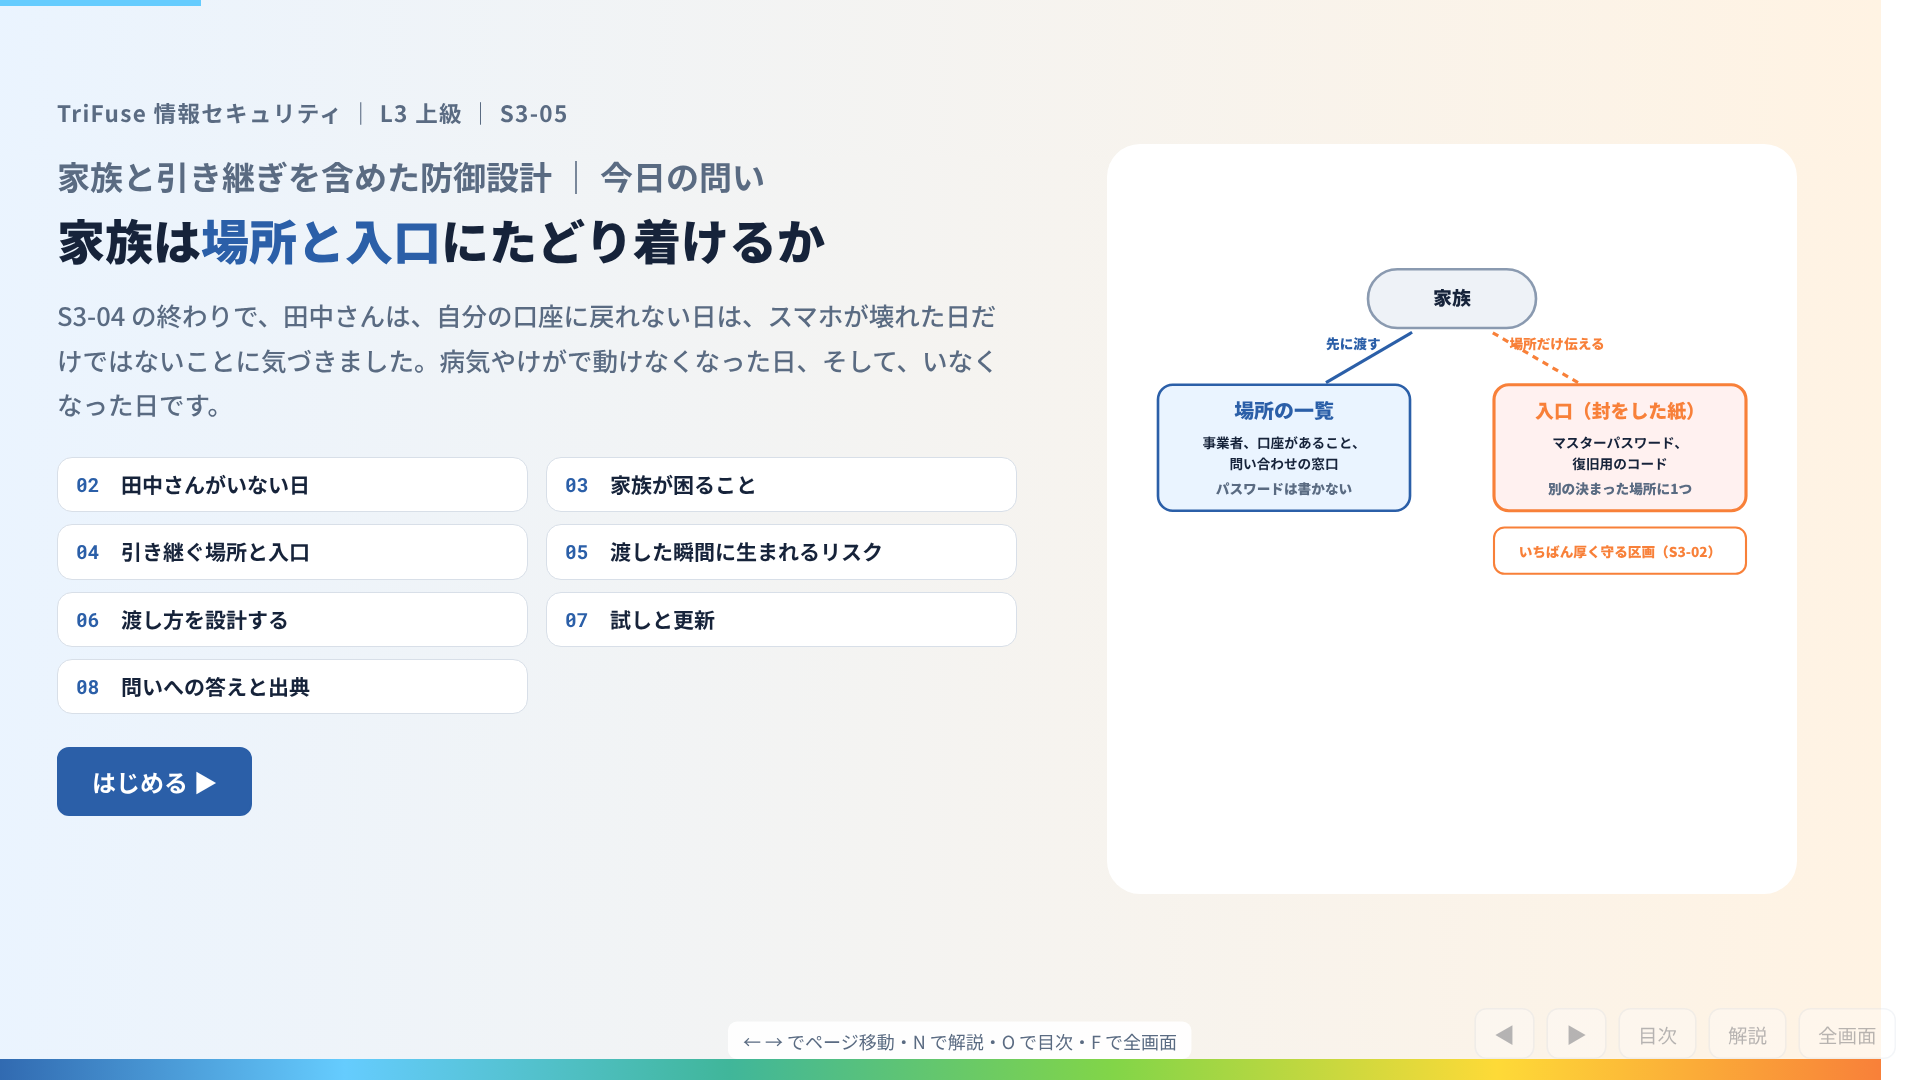
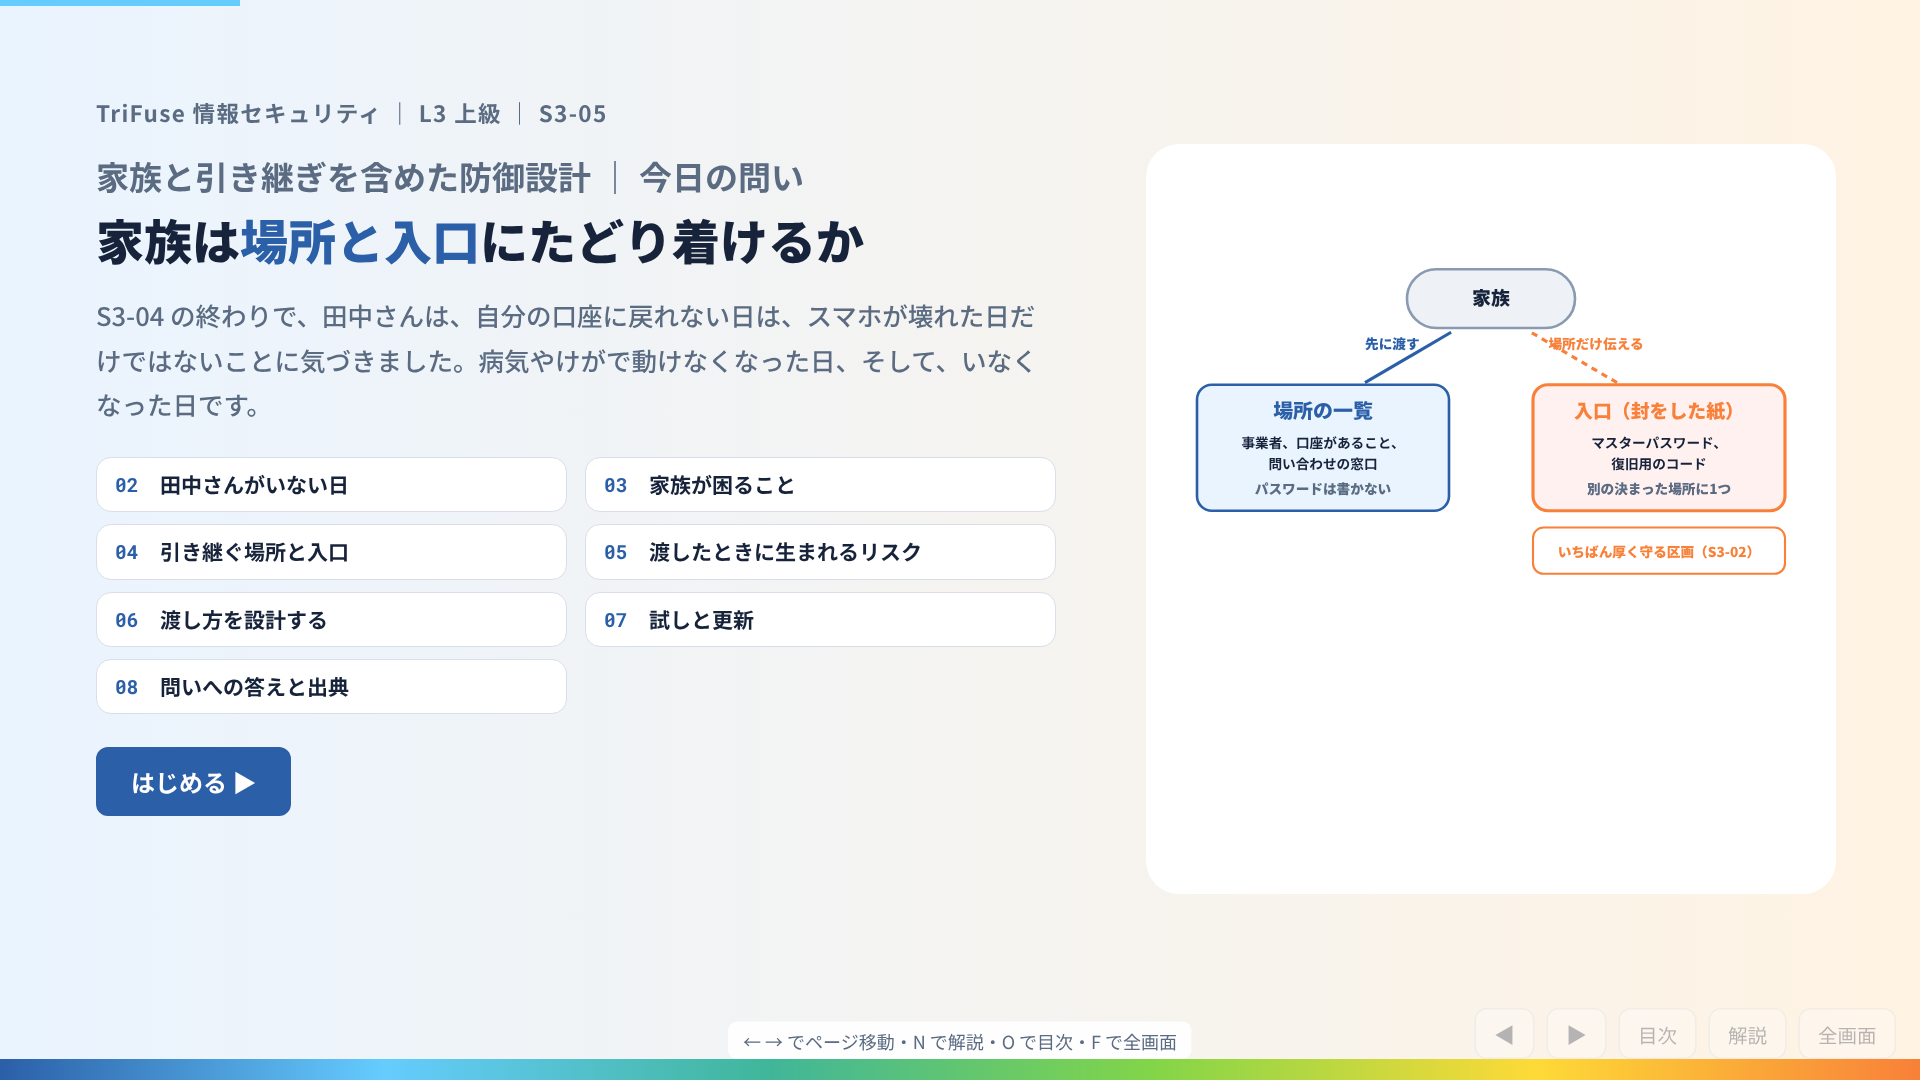
S3-05 の見出しを「渡したときに生まれるリスク」に直した版に差し替える
社長の指示で「渡した瞬間に」を「渡したときに」に直した。make_site v1.10。

Claude-Session: https://claude.ai/code/session_01KsCAt1ZMX88apw32RnbciD

diff --git a/index.html b/index.html
@@ -307,6 +307,6 @@ footer{margin-top:52px;padding-top:18px;border-top:1px solid var(--rule);font-si
 <a class="card" href="e3-ex/"><div class="shot"><img src="e3-ex/thumb.png" alt="" loading="lazy" width="1920" height="1080"></div><div class="tx"><span class="code">E3-EX</span><span class="tt">卒業課題：波及経路と反証条件を明示して読む</span><span class="go">›</span><span class="meta">7ページ</span></div></a>
 </div>
 </section>
-<footer>make_site v1.9（s0-01 50c2e74a・s0-02 2e95fb85・s0-ex f2a050db・a0-01 30b2ef9f・a0-02 78939ab9・a0-ex e6d43d4a・f0-01 23dde620・f0-02 466eb6ce・f0-03 c23f17cb・f0-04 93c8d941・f0-ex cd29c841・e0-01 535e488a・e0-02 5b2a3c6a・e0-ex 70aa4361・f1-01 b1ec7614・f1-02 4248ca1f・f1-03 e6e039cd・f1-04 368722ae・f1-05 02fb2ad5・f1-06 9df6d592・f1-07 f7a43dd8・f1-08 fb1232a5・f1-09 1fbb41cd・f1-10 af3f724b・s1-01 25129159・s1-02 2f18b4fb・s1-03 8658725b・s1-04 1f29bea3・s1-05 d9ac88dd・s1-06 4d6f40f9・s1-07 95ee285b・s1-08 63af92dc・s1-09 24c21369・s1-10 9bf7b858・s1-ex 2dfb9175・s2-01 7470b37d・s2-02 7f980b8d・s2-03 fa460cf1・s2-04 7ffccece・s2-05 77ae8dc8・s2-06 7869209f・s2-07 7caf2a14・s2-08 4cd032ba・s2-ex 2f635534・s3-01 da4874a0・s3-02 259b2144・s3-03 93bee158・s3-04 03857286・s3-05 c9c6472c・s3-ex 76a0d264・e1-01 fc9b31af・e1-02 5c5e348d・e1-03 f86e2122・e1-04 194b747e・e1-05 c1cf74e7・e1-06 bd4efdfd・e1-07 1fe7a9b3・e1-08 0a1dd70c・e1-09 50465a95・e1-10 e3c3ba2a・e1-11 4628654f・e1-12 245bc4da・e1-13 ab06cdf1・e1-14 044a8cbd・e1-15 de018357・e1-ex 89614912・e2-01 975ae973・e2-02 7dcfab0f・e2-03 b7b9740d・e2-04 a0c0fb98・e2-05 b945e59f・e2-06 1c936bb3・e2-07 f6f75079・e2-08 764212d4・e2-09 468568ed・e2-10 14f22e24・e2-11 65fec2db・e2-12 df8c0d86・e2-13 2373069f・e2-14 ff93b6b6・e2-15 e479bb8b・e2-16 cb75bd6b・e2-ex 6f46024e・e3-01 d52bfad5・e3-02 0c58a283・e3-03 9bcc544b・e3-04 0a2f126d・e3-05 86b81abc・e3-06 55349d35・e3-07 8c4f6452・e3-08 b99023ff・e3-09 1ea73cfd・e3-10 130f9a3c・e3-11 5dc98598・e3-12 5aca9351・e3-ex f8f0f251・a1-01 68d581dd・a1-02 2eeea5a8・a1-03 dd2515aa・a1-04 de7e056e・a1-05 753451d6・a1-06 8b516ba0・a1-07 adc351e2・a1-08 16eeb351・a1-09 6e24be23・a1-10 f8bde4ba・a1-11 6d1ac03b・a1-12 e2b1858f・a1-13 394cf086・a1-14 0d8a5118・a1-15 61883536・a1-ex 5a31e835・a2-01 485b79c6・a2-02 f2960554・a2-03 a0b903a1・a2-04 3cbc8980・a2-05 34fb165d・a2-06 55845f5e・a2-07 e5cc3416・a2-08 206a4823・a2-09 a963fcb9・a2-10 fb538646・a2-11 b8d90223・a2-12 318d8d56・a2-13 45a48123・a2-14 5aaf12a2・a2-15 43175f4e・a2-ex 8b384fc0・a3-01 7888de0a・a3-02 f2db5215・a3-03 a34a814a・a3-04 7e45d770・a3-05 db0a0bbb・a3-06 8aabccfb・a3-07 b32d217e・a3-08 62e132bf・a3-09 b63f1fd4・a3-ex b555a2f9・f1-11 97628479・f1-12 f3f86691・f1-13 fd844582・f1-14 00ceaa43・f1-15 fd0dcb98・f1-16 3b0432ec・f1-17 558ea82c・f1-18 a9a7c3b0・f1-19 607d04d3・f1-20 ed9f4f46・f1-21 47e66df5・f1-ex a5aa7e87・f2-01 7b7753f1・f2-02 0a5c108f・f2-03 e7d9f0d6・f2-04 8383e45b・f2-05 915bee1b・f2-06 6d34c7d4・f2-07 3ef5bdf6・f2-08 8793d7d5・f2-09 73bc4a2e・f2-10 ec8fbaba・f2-11 55e826f9・f2-12 cfe197b2・f2-13 b78d1a7c・f2-14 620bfa7b・f2-15 680d8937・f2-16 ea117aa4・f2-17 c7f320cb・f2-18 19847a61・f2-19 b5989e18・f2-20 94de711b・f2-21 f5ae4f92・f2-ex a68b9c76・f3-01 fa5fa1f5・f3-02 50b2f21f・f3-03 5a822b7b・f3-04 634a6316・f3-05 3b3f0a4b・f3-06 b58c204e・f3-07 8182bd1b・f3-08 a7c8b43a・f3-09 12ed2900・f3-10 6cdd39f6・f3-11 d6827457・f3-12 06a24e81・f3-13 974d8c4d・f3-14 7a5d4bd0・f3-15 e2d7719f・f3-16 8abb0893・f3-ex f4736045）</footer>
+<footer>make_site v1.10（s0-01 50c2e74a・s0-02 2e95fb85・s0-ex f2a050db・a0-01 30b2ef9f・a0-02 78939ab9・a0-ex e6d43d4a・f0-01 23dde620・f0-02 466eb6ce・f0-03 c23f17cb・f0-04 93c8d941・f0-ex cd29c841・e0-01 535e488a・e0-02 5b2a3c6a・e0-ex 70aa4361・f1-01 b1ec7614・f1-02 4248ca1f・f1-03 e6e039cd・f1-04 368722ae・f1-05 02fb2ad5・f1-06 9df6d592・f1-07 f7a43dd8・f1-08 fb1232a5・f1-09 1fbb41cd・f1-10 af3f724b・s1-01 25129159・s1-02 2f18b4fb・s1-03 8658725b・s1-04 1f29bea3・s1-05 d9ac88dd・s1-06 4d6f40f9・s1-07 95ee285b・s1-08 63af92dc・s1-09 24c21369・s1-10 9bf7b858・s1-ex 2dfb9175・s2-01 7470b37d・s2-02 7f980b8d・s2-03 fa460cf1・s2-04 7ffccece・s2-05 77ae8dc8・s2-06 7869209f・s2-07 7caf2a14・s2-08 4cd032ba・s2-ex 2f635534・s3-01 da4874a0・s3-02 259b2144・s3-03 93bee158・s3-04 03857286・s3-05 9c42f2e6・s3-ex 76a0d264・e1-01 fc9b31af・e1-02 5c5e348d・e1-03 f86e2122・e1-04 194b747e・e1-05 c1cf74e7・e1-06 bd4efdfd・e1-07 1fe7a9b3・e1-08 0a1dd70c・e1-09 50465a95・e1-10 e3c3ba2a・e1-11 4628654f・e1-12 245bc4da・e1-13 ab06cdf1・e1-14 044a8cbd・e1-15 de018357・e1-ex 89614912・e2-01 975ae973・e2-02 7dcfab0f・e2-03 b7b9740d・e2-04 a0c0fb98・e2-05 b945e59f・e2-06 1c936bb3・e2-07 f6f75079・e2-08 764212d4・e2-09 468568ed・e2-10 14f22e24・e2-11 65fec2db・e2-12 df8c0d86・e2-13 2373069f・e2-14 ff93b6b6・e2-15 e479bb8b・e2-16 cb75bd6b・e2-ex 6f46024e・e3-01 d52bfad5・e3-02 0c58a283・e3-03 9bcc544b・e3-04 0a2f126d・e3-05 86b81abc・e3-06 55349d35・e3-07 8c4f6452・e3-08 b99023ff・e3-09 1ea73cfd・e3-10 130f9a3c・e3-11 5dc98598・e3-12 5aca9351・e3-ex f8f0f251・a1-01 68d581dd・a1-02 2eeea5a8・a1-03 dd2515aa・a1-04 de7e056e・a1-05 753451d6・a1-06 8b516ba0・a1-07 adc351e2・a1-08 16eeb351・a1-09 6e24be23・a1-10 f8bde4ba・a1-11 6d1ac03b・a1-12 e2b1858f・a1-13 394cf086・a1-14 0d8a5118・a1-15 61883536・a1-ex 5a31e835・a2-01 485b79c6・a2-02 f2960554・a2-03 a0b903a1・a2-04 3cbc8980・a2-05 34fb165d・a2-06 55845f5e・a2-07 e5cc3416・a2-08 206a4823・a2-09 a963fcb9・a2-10 fb538646・a2-11 b8d90223・a2-12 318d8d56・a2-13 45a48123・a2-14 5aaf12a2・a2-15 43175f4e・a2-ex 8b384fc0・a3-01 7888de0a・a3-02 f2db5215・a3-03 a34a814a・a3-04 7e45d770・a3-05 db0a0bbb・a3-06 8aabccfb・a3-07 b32d217e・a3-08 62e132bf・a3-09 b63f1fd4・a3-ex b555a2f9・f1-11 97628479・f1-12 f3f86691・f1-13 fd844582・f1-14 00ceaa43・f1-15 fd0dcb98・f1-16 3b0432ec・f1-17 558ea82c・f1-18 a9a7c3b0・f1-19 607d04d3・f1-20 ed9f4f46・f1-21 47e66df5・f1-ex a5aa7e87・f2-01 7b7753f1・f2-02 0a5c108f・f2-03 e7d9f0d6・f2-04 8383e45b・f2-05 915bee1b・f2-06 6d34c7d4・f2-07 3ef5bdf6・f2-08 8793d7d5・f2-09 73bc4a2e・f2-10 ec8fbaba・f2-11 55e826f9・f2-12 cfe197b2・f2-13 b78d1a7c・f2-14 620bfa7b・f2-15 680d8937・f2-16 ea117aa4・f2-17 c7f320cb・f2-18 19847a61・f2-19 b5989e18・f2-20 94de711b・f2-21 f5ae4f92・f2-ex a68b9c76・f3-01 fa5fa1f5・f3-02 50b2f21f・f3-03 5a822b7b・f3-04 634a6316・f3-05 3b3f0a4b・f3-06 b58c204e・f3-07 8182bd1b・f3-08 a7c8b43a・f3-09 12ed2900・f3-10 6cdd39f6・f3-11 d6827457・f3-12 06a24e81・f3-13 974d8c4d・f3-14 7a5d4bd0・f3-15 e2d7719f・f3-16 8abb0893・f3-ex f4736045）</footer>
 </main>
 </body></html>

diff --git a/s3-05/index.html b/s3-05/index.html
@@ -380,7 +380,7 @@ svg .sv{transform:none}
       <div class="cover-q fade d2">家族と引き継ぎを含めた防御設計 ｜ 今日の問い</div>
       <h1 class="head fade d2">家族は<span class="hl2">場所と入口</span>にたどり着けるか</h1>
       <p class="sub fade d3">S3-04 の終わりで、田中さんは、自分の口座に戻れない日は、スマホが壊れた日だけではないことに気づきました。病気やけがで動けなくなった日、そして、いなくなった日です。</p>
-      <div class="toc fade d4"><button data-go="1"><span class="n">02</span>田中さんがいない日</button><button data-go="2"><span class="n">03</span>家族が困ること</button><button data-go="3"><span class="n">04</span>引き継ぐ場所と入口</button><button data-go="4"><span class="n">05</span>渡した瞬間に生まれるリスク</button><button data-go="5"><span class="n">06</span>渡し方を設計する</button><button data-go="6"><span class="n">07</span>試しと更新</button><button data-go="7"><span class="n">08</span>問いへの答えと出典</button></div>
+      <div class="toc fade d4"><button data-go="1"><span class="n">02</span>田中さんがいない日</button><button data-go="2"><span class="n">03</span>家族が困ること</button><button data-go="3"><span class="n">04</span>引き継ぐ場所と入口</button><button data-go="4"><span class="n">05</span>渡したときに生まれるリスク</button><button data-go="5"><span class="n">06</span>渡し方を設計する</button><button data-go="6"><span class="n">07</span>試しと更新</button><button data-go="7"><span class="n">08</span>問いへの答えと出典</button></div>
       <button class="btn pr start fade d5" data-go="1">はじめる ▶</button>
     </div>
     <div class="cover-ill" style="background:#fff;border-radius:33px;padding:30px"><svg viewBox="0 0 600 330" style="width:100%;height:495px" aria-label="場所の一覧と入口を分けて家族に引き継ぐ">
@@ -431,7 +431,7 @@ svg .sv{transform:none}
 </section>
 
 <section id="p5" class="slide page hasbr" data-n="s4" data-steps="4">
-  <header class="hd"><span class="chap">4. 渡した瞬間に生まれるリスク</span><h2 class="head">入口を家族に渡すことは、入口を田中さんの外にもう1つ作ること</h2><span class="num">05</span></header><p class="bridge"><b class="bk">前で分かったこと</b><span>場所と入口</span><i class="ar">→</i><b class="bk now">ここで見ること</b><span>守りとぶつかるところ</span></p>
+  <header class="hd"><span class="chap">4. 渡したときに生まれるリスク</span><h2 class="head">入口を家族に渡すことは、入口を田中さんの外にもう1つ作ること</h2><span class="num">05</span></header><p class="bridge"><b class="bk">前で分かったこと</b><span>場所と入口</span><i class="ar">→</i><b class="bk now">ここで見ること</b><span>守りとぶつかるところ</span></p>
   <div class="body bt" style="display:flex;flex-direction:column;gap:21px">
     <div class="card fade d1"><h4>家族のために書いた一覧も入口になる（S1-06）</h4><p>その一覧が家族以外の人の目に触れれば、田中さんのすべての口座への地図になる。</p></div>
     <div class="stepbar"><b style="font-size:22.5px">リスクを1つずつ</b><button class="btn pr" data-next>次の段階 ▶</button><button class="btn" data-reset>はじめから</button><span class="hint">→キーでも進みます</span></div>
